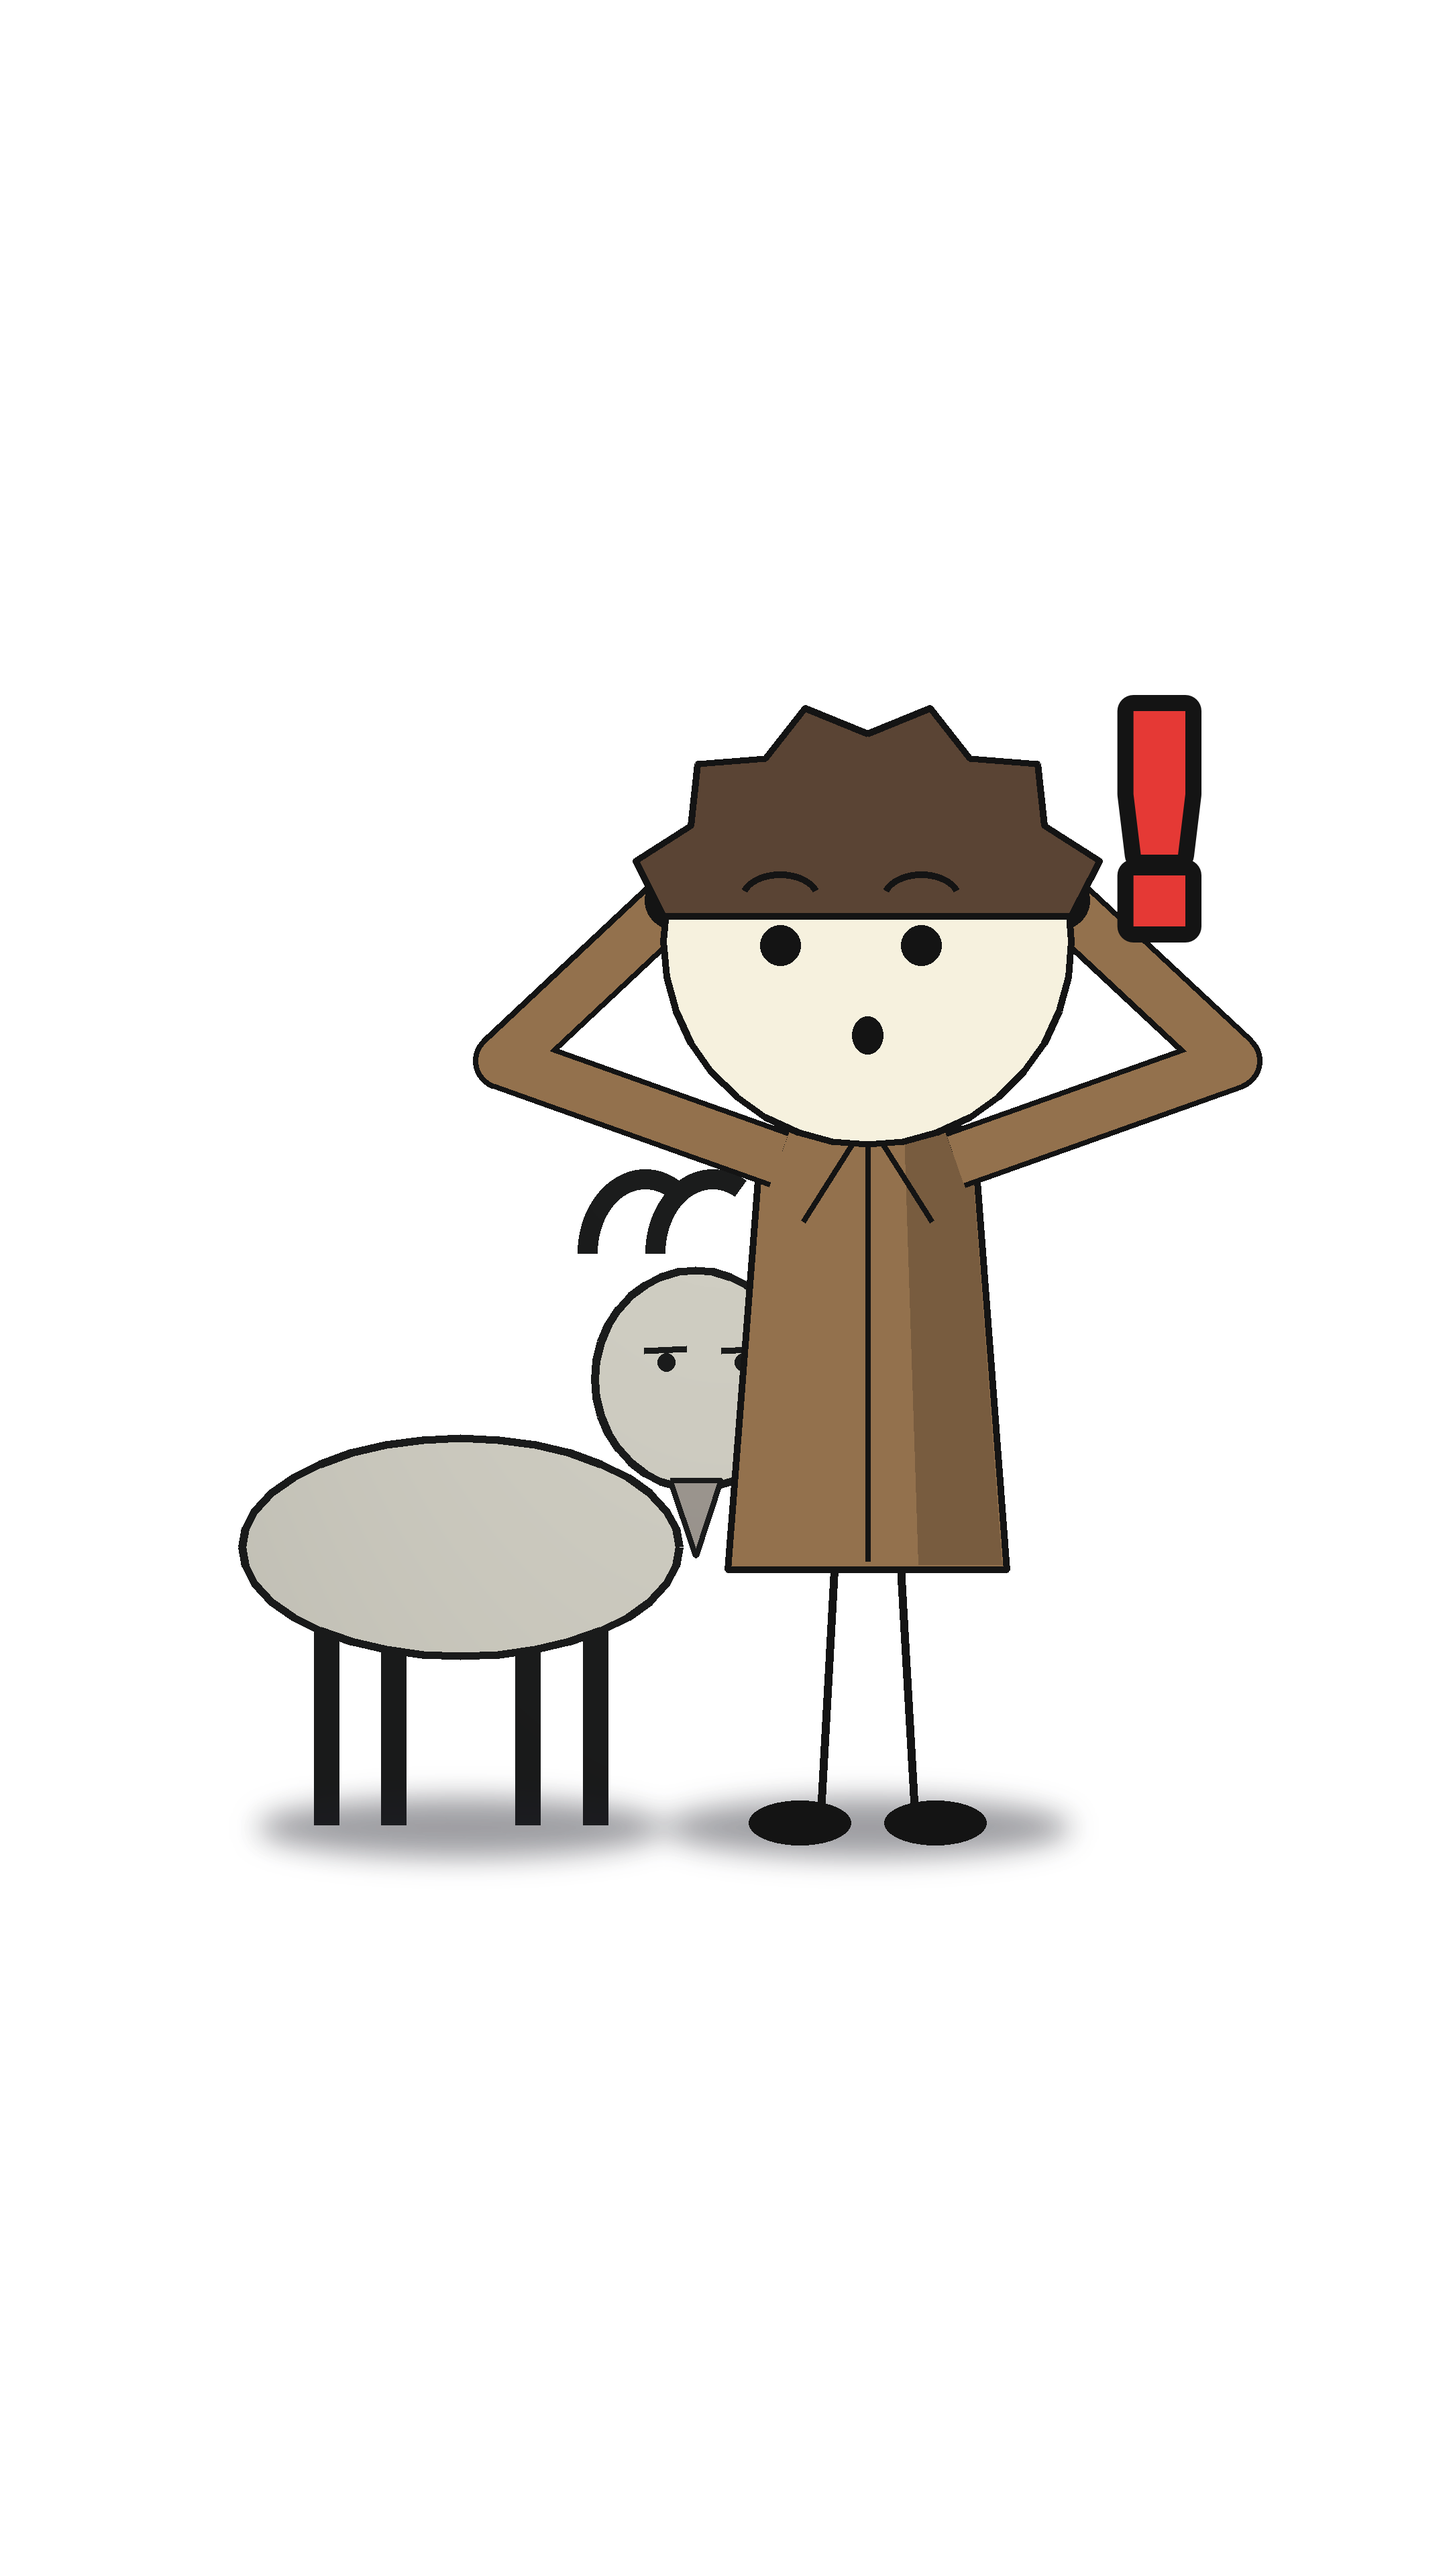
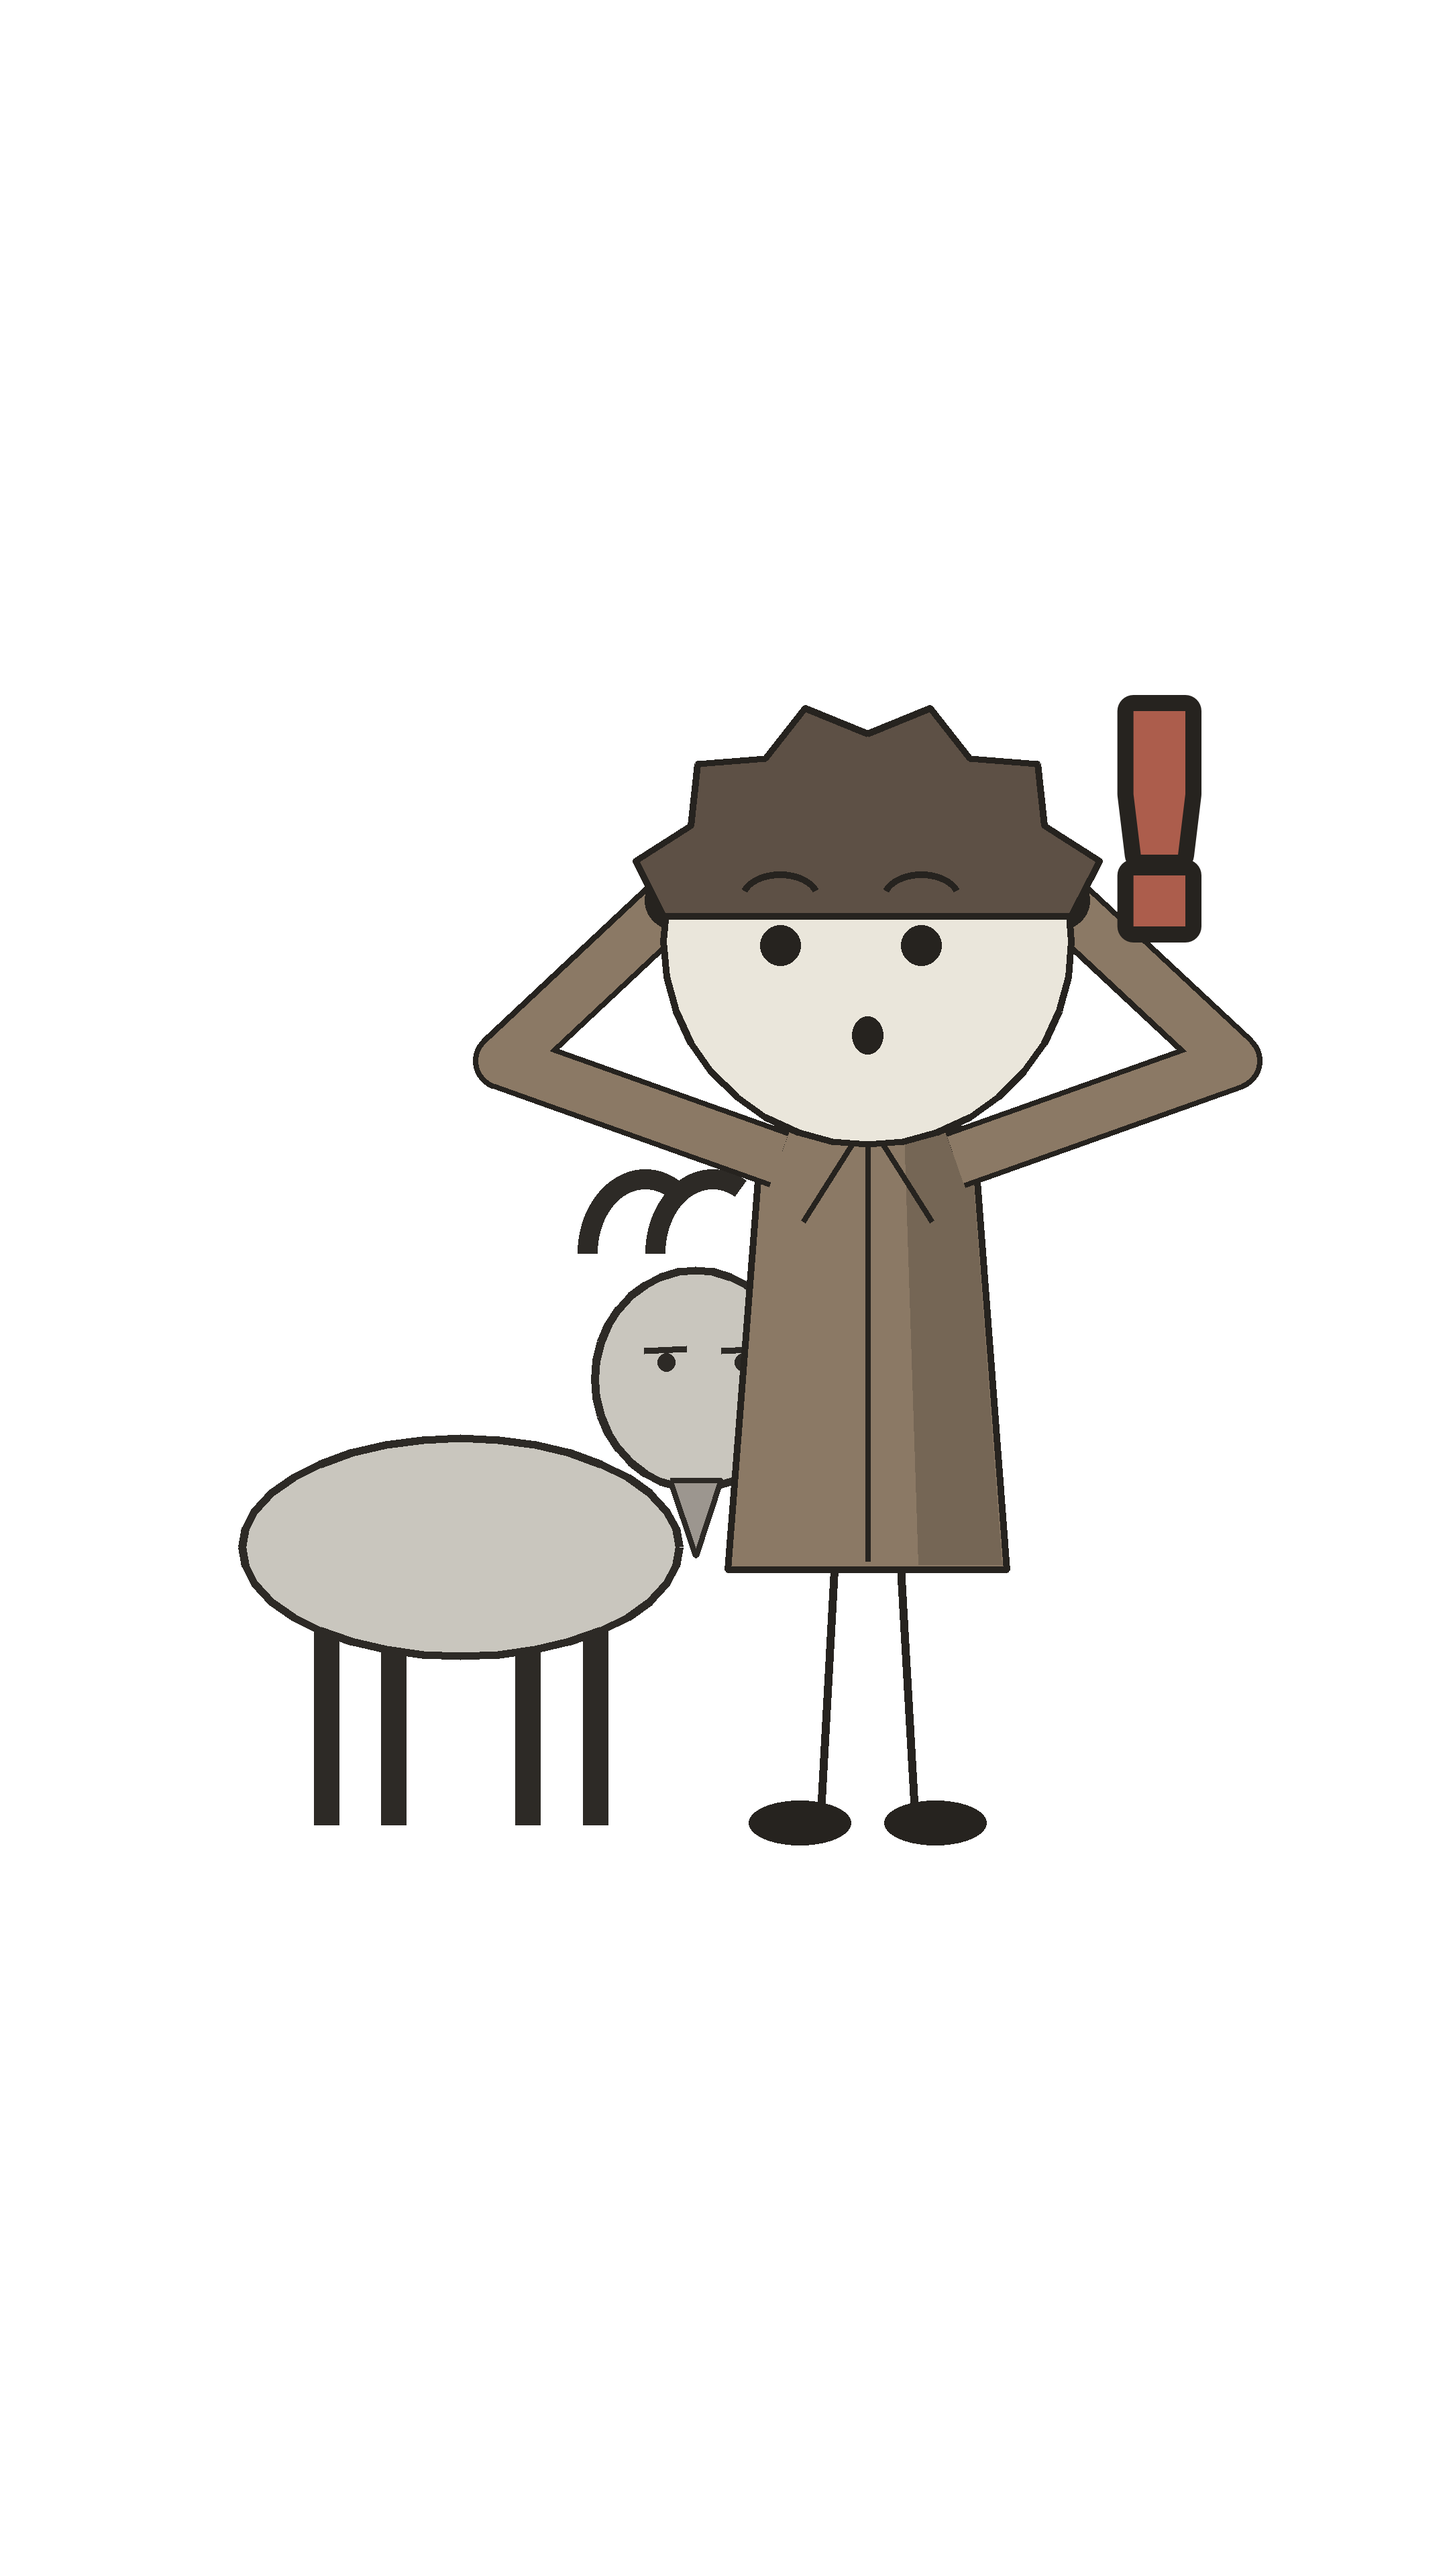
Hook layers: old-look mode, RNG-consistent matte, colour fit to the Short
Claude-Session: https://claude.ai/code/session_01ARc3Hz7LAMiYKj2kwLfzFS

Changed region(s): [[0.1861, 0.6875, 0.7444, 0.75], [0.7755, 0.25, 0.8375, 0.375]]

diff --git a/shorts_hooks/build_layers.py b/shorts_hooks/build_layers.py
@@ -32,6 +32,8 @@ TMP = tempfile.mkdtemp()
 if hasattr(pf, 'save_frame'): pf.save_frame = lambda img, o: img.save(o)
 SRC = inspect.getsource(pf.render)
 POST_MUTE, POST_LIGHT = 'mute_image(img)' in SRC, 'light_pass(img)' in SRC
+if os.environ.get('HOOK_OLD_LOOK'):            # Short rendered before contact shadows and the light pass existed
+    pf.shadows = lambda *a, **k: None; pf.light_pass = lambda *a, **k: None; POST_LIGHT = False
 orig_setting, orig_human, orig_cat = pf.scene_setting, pf.human, pf.cat
 orig_timer = modern.timer if modern else None
 heads, trect = [], {}
@@ -45,7 +47,12 @@ def rec(fn):
 def run(fill=None, timer=True):
     heads.clear()
     pf.human, pf.cat = rec(orig_human), rec(orig_cat)
-    pf.scene_setting = (lambda low, ctx, c=fill: (lambda p: p.rect((-10, -10, pf.W + 10, pf.H + 10), c, 0))) if fill else orig_setting
+    def solid(low, ctx, c=fill):
+        real = orig_setting(low, ctx)
+        def paint(p):
+            real(pf.P(Image.new('RGB', p.img.size), p.r)); p.rect((-10, -10, pf.W + 10, pf.H + 10), c, 0)
+        return paint
+    pf.scene_setting = solid if fill else orig_setting
     if modern and orig_timer:
         def tm(p, label):
             r = orig_timer(p, label); trect["r"] = [float(v) for v in r]; return r
@@ -132,5 +139,20 @@ for k, (r0, r1) in enumerate(lines):
     rgba = np.dstack([F0[band][y0:y1, x0:x1], al[y0:y1, x0:x1]]).astype(np.uint8)
     Image.fromarray(rgba, "RGBA").save(os.path.join(out, f"title_{k}.png"))
     info["title_lines"].append([int(x0), int(y0 + 120), int(x1), int(y1 + 120)])
+# colour: fit an affine RGB map from our rebuilt frame to the Short's real frame 0 (older Shorts used a more muted look)
+s0 = info["kb"]["s0"]; A_ = 2 / s0
+mine = np.asarray(comp.convert("RGB").transform((1080, 1920), Image.AFFINE, (A_, 0, 2 * (540 - 540 / s0), 0, A_, 2 * (960 - 960 / s0)), resample=Image.BILINEAR)).astype(float)
+keep = np.ones((1920, 1080), bool); keep[:400] = False; keep[1370:1590] = False
+if "badge" in info: x0, y0, x1, y1 = [int(v) for v in info["badge"]]; keep[y0:y1, x0:x1] = False
+X = np.c_[mine[keep], np.ones(keep.sum())]; Y = F0[keep].astype(float)
+Mfit = np.linalg.lstsq(X[::7], Y[::7], rcond=None)[0]
+before, after = np.abs(X[:, :3] - Y).mean(), np.abs(X @ Mfit - Y).mean()
+info["color_fit"] = {"before": round(float(before), 2), "after": round(float(after), 2)}
+if after < before * 0.8:
+    def recolor(path):
+        im = np.asarray(Image.open(path)).astype(float); rgb = im[..., :3].reshape(-1, 3)
+        im[..., :3] = np.clip(np.c_[rgb, np.ones(len(rgb))] @ Mfit, 0, 255).reshape(im.shape[:2] + (3,))
+        Image.fromarray(im.astype(np.uint8), "RGBA" if im.shape[2] == 4 else "RGB").save(path)
+    recolor(os.path.join(out, "far.png")); recolor(os.path.join(out, "fg.png")); info["color_fit"]["applied"] = True
 json.dump(info, open(os.path.join(out, "layers.json"), "w"), indent=1)
-print(json.dumps({k: info[k] for k in ("heads", "badge", "first_cut", "kb", "rebuild_err", "title_lines") if k in info}))
+print(json.dumps({k: info[k] for k in ("heads", "badge", "first_cut", "kb", "rebuild_err", "title_lines", "color_fit") if k in info}))
